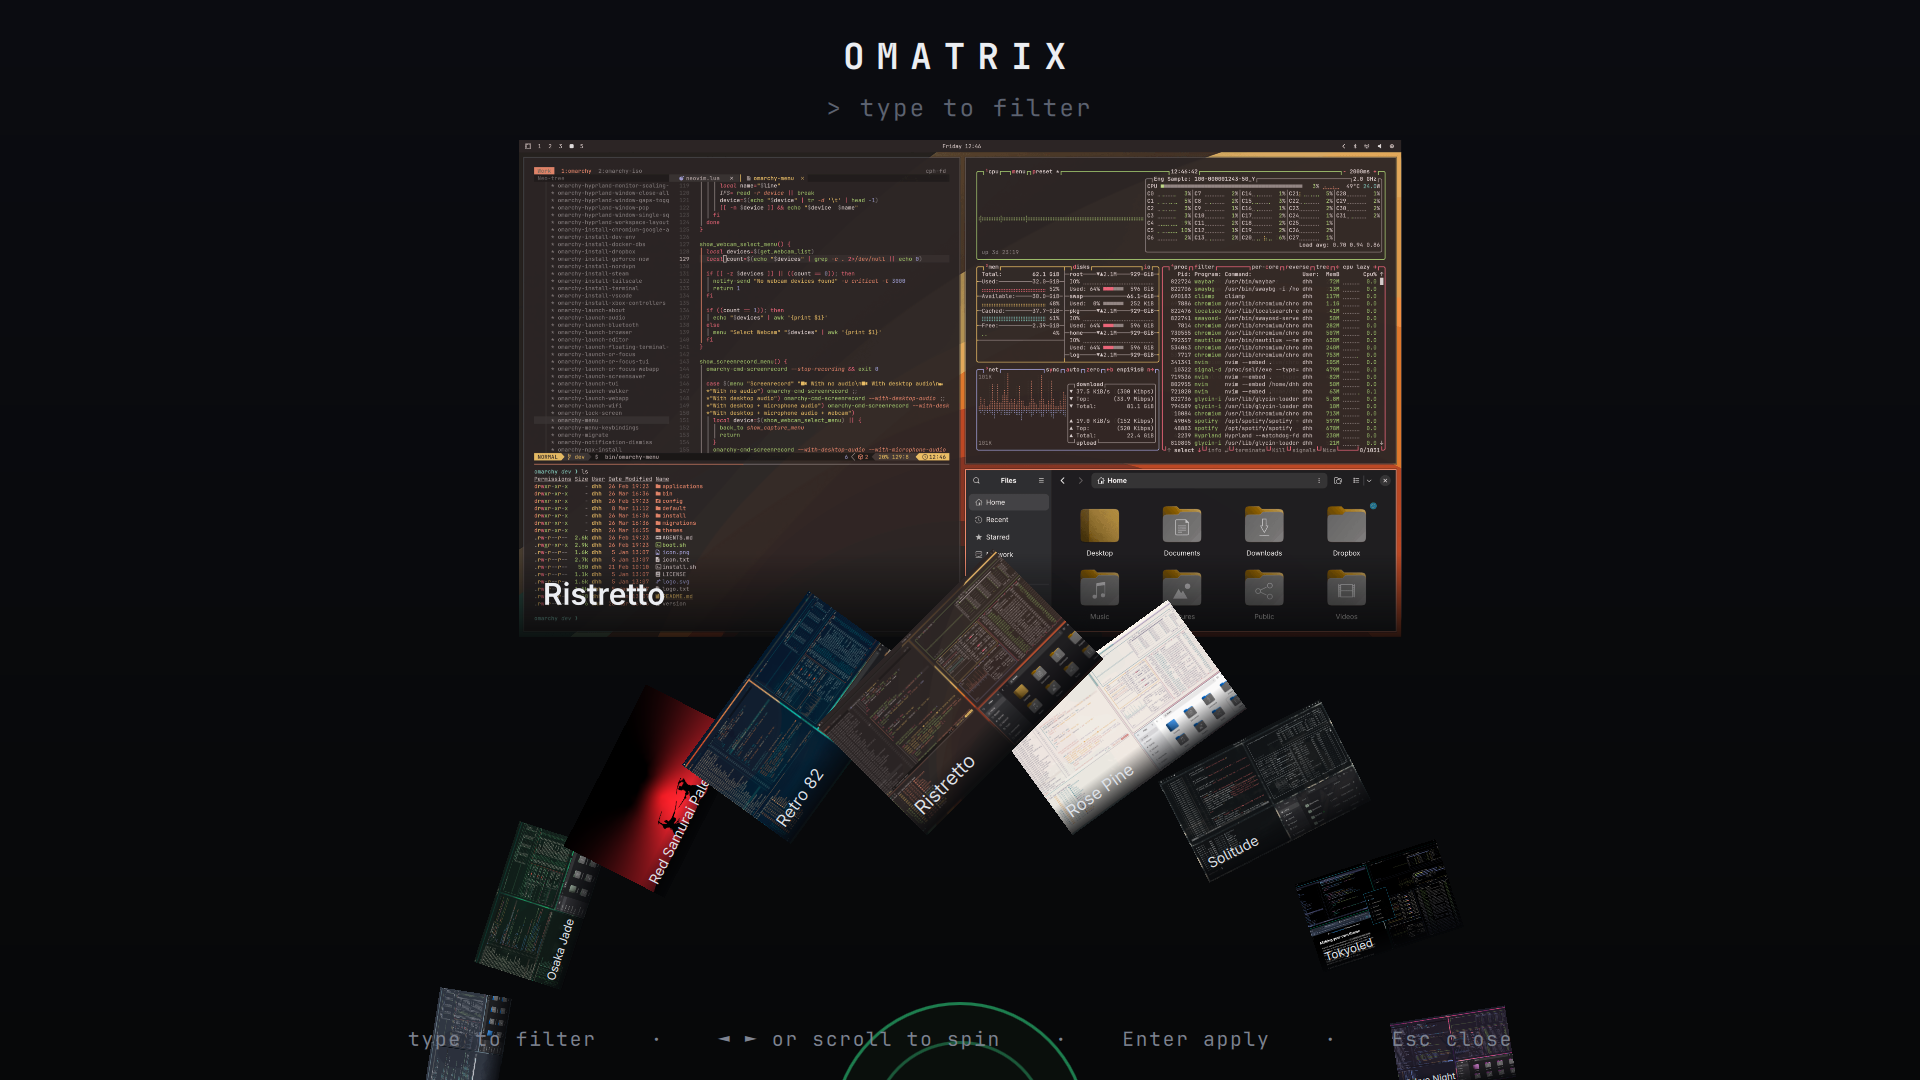
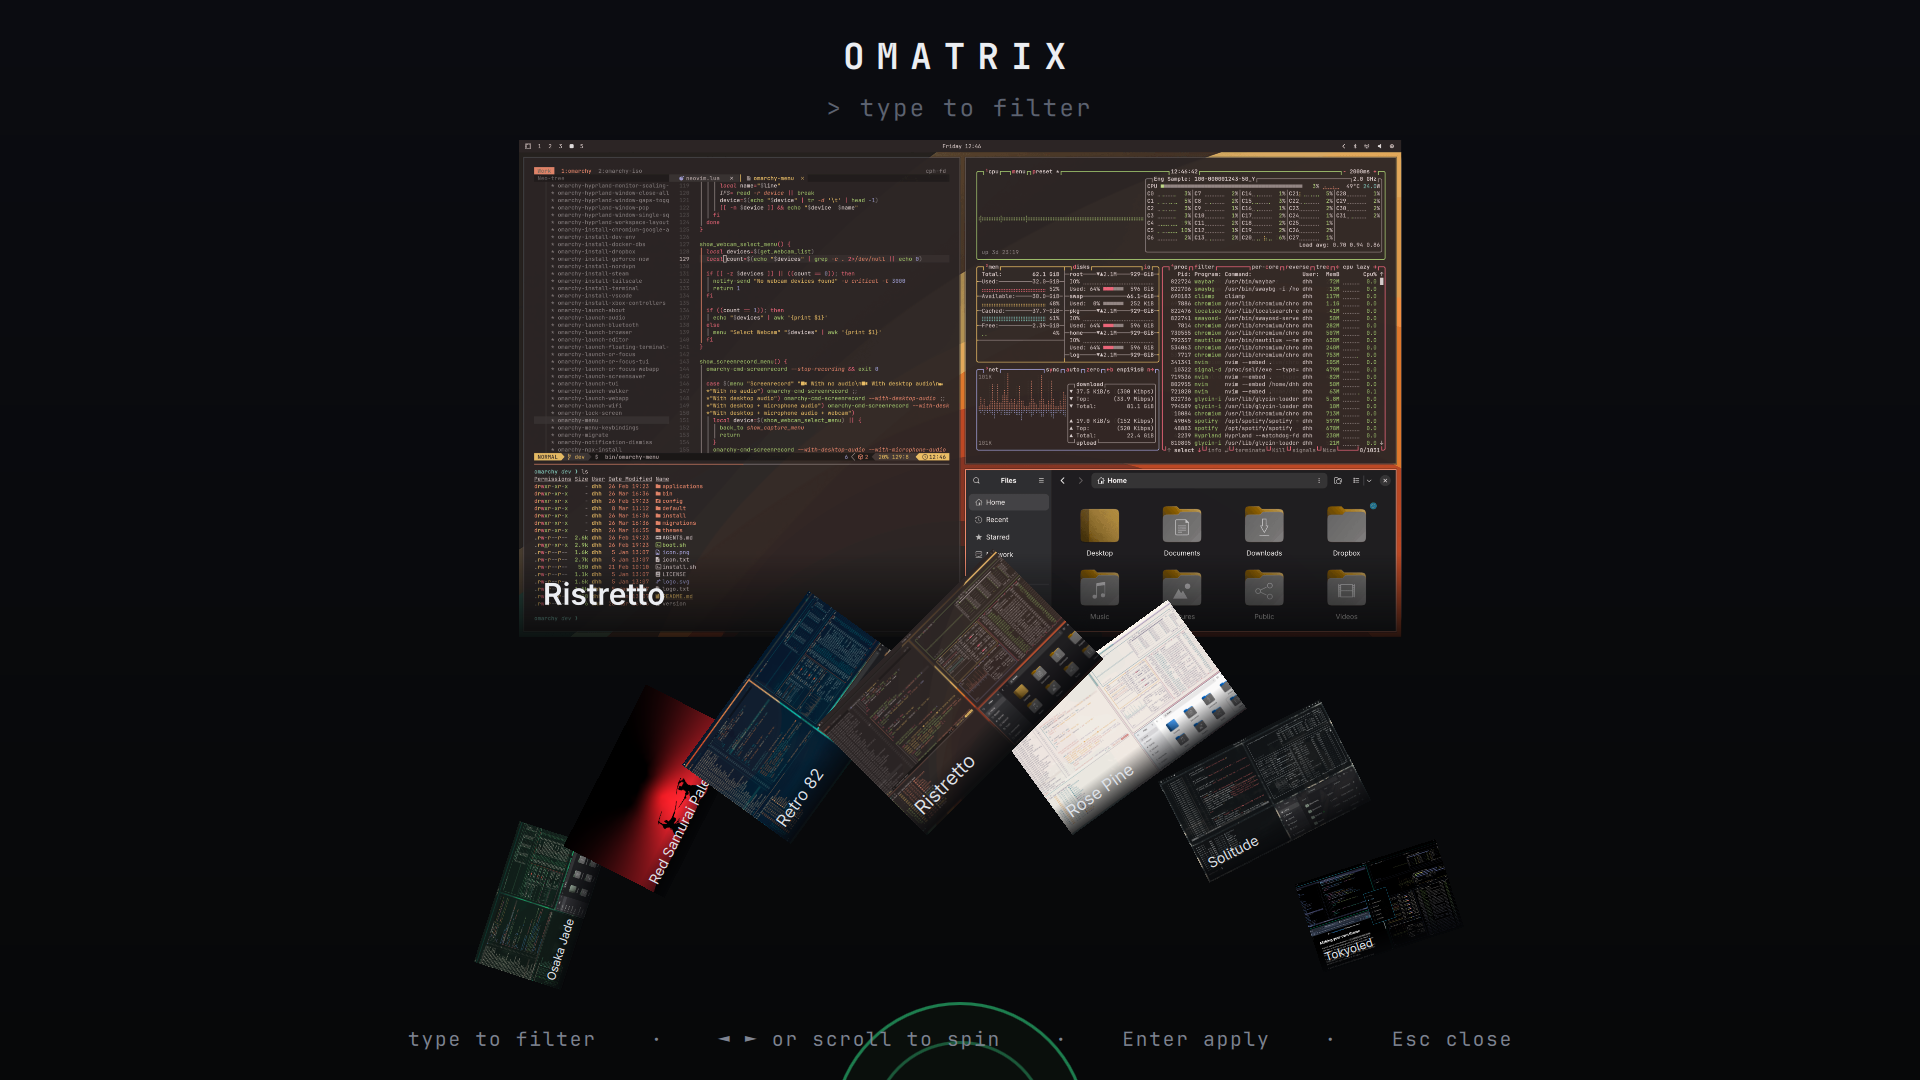
Fade outer dial cards so they don't cover the hint line
Cards now fade out between 3 and 4 steps from the apex instead of
showing up to 4 steps, where they overlapped the bottom hint text.
Also refresh the README preview.

Changed region(s): [[0.7188, 0.9167, 0.8125, 1.0], [0.2188, 0.9167, 0.2812, 1.0]]

diff --git a/Omatrix.qml b/Omatrix.qml
@@ -201,7 +201,9 @@ Item {
           rotation: -(90 - rel * root.stepDeg) * 0.5
           scale: Math.max(0.55, 1.18 - Math.abs(rel) * 0.16)
           z: Math.round(200 - Math.abs(rel) * 10)
-          opacity: Math.abs(rel) > 4.2 ? 0 : 1
+          // Fade out between 3 and 4 steps from the apex, so the lowest cards on
+          // the arc never cover the hint line at the bottom.
+          opacity: Math.max(0, Math.min(1, 4 - Math.abs(rel)))
           visible: opacity > 0
 
           Rectangle {
